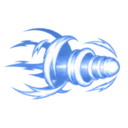
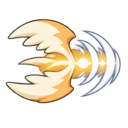
Rediseña los ataques básicos con identidad propia

diff --git a/index.html b/index.html
@@ -10573,7 +10573,7 @@ function basicAttackArt(key){
   if (FX_TEX[kind]) return kind;
   if (!FX_BASIC_REQUESTS.has(key)){
     FX_BASIC_REQUESTS.add(key);
-    const texture = loader.load('ui/ataques/' + key + '.png', loaded => { FX_TEX[kind] = loaded; });
+    const texture = loader.load('ui/ataques/' + key + '.png?v=2', loaded => { FX_TEX[kind] = loaded; });
     texture.colorSpace = THREE.SRGBColorSpace;
   }
   return null;
